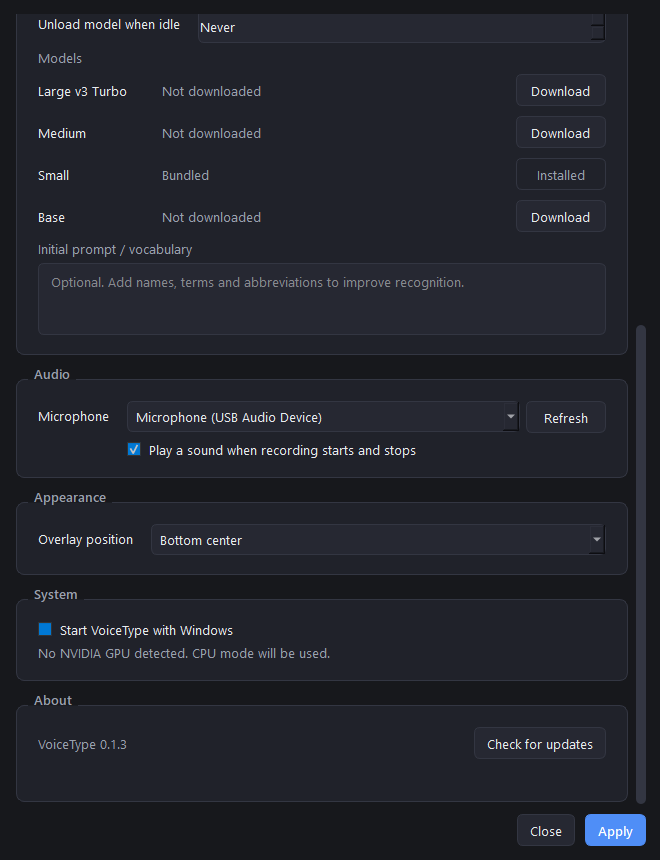
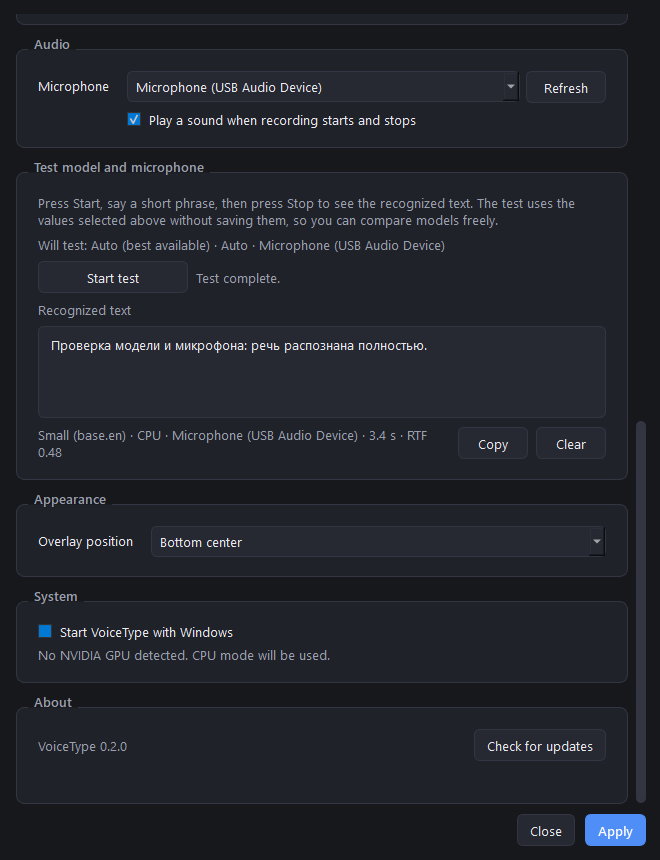
Cover the fixes and the test bench with tests, refresh screenshots, release 0.2.0
Replace the double-encoded test strings with real Russian text, check every default hallucination phrase, and add tests for model file completeness, revision-pinned file lists, CUDA retry, the overlay fade cancellation, and test bench validation. Document the test bench in the README, capture the settings screenshot with a completed test result, and set the version in the package, project file, installer, and README.

diff --git a/tests/test_core.py b/tests/test_core.py
@@ -1,8 +1,10 @@
 from __future__ import annotations
 
 import sys
+import tempfile
 import unittest
 from pathlib import Path
+from unittest import mock
 
 ROOT = Path(__file__).resolve().parents[1]
 sys.path.insert(0, str(ROOT / "src"))
@@ -11,7 +13,7 @@ import numpy as np  # noqa: E402
 
 import voicetype  # noqa: E402,F401
 from voicetype import models  # noqa: E402
-from voicetype.config import AppConfig  # noqa: E402
+from voicetype.config import DEFAULT_HALLUCINATIONS, AppConfig  # noqa: E402
 from voicetype.hotkeys import (  # noqa: E402
     canonical_vk,
     format_hotkey,
@@ -435,13 +437,19 @@ class TranscriberTests(unittest.TestCase):
 
 class CleanTextTests(unittest.TestCase):
     def test_whitespace(self) -> None:
-        self.assertEqual(clean_text("  РїСЂРёРІРµС‚   РјРёСЂ \n", []), "РїСЂРёРІРµС‚ РјРёСЂ")
+        self.assertEqual(clean_text("  привет   мир \n", []), "привет мир")
 
     def test_hallucinations(self) -> None:
-        phrases = ["РџСЂРѕРґРѕР»Р¶РµРЅРёРµ СЃР»РµРґСѓРµС‚...", "РЎРїР°СЃРёР±Рѕ Р·Р° РїСЂРѕСЃРјРѕС‚СЂ!"]
-        self.assertEqual(clean_text("РџСЂРѕРґРѕР»Р¶РµРЅРёРµ СЃР»РµРґСѓРµС‚...", phrases), "")
-        self.assertEqual(clean_text("РЎРїР°СЃРёР±Рѕ Р·Р° РїСЂРѕСЃРјРѕС‚СЂ!", phrases), "")
-        self.assertEqual(clean_text("РџСЂРѕРґРѕР»Р¶РµРЅРёРµ СЃР»РµРґСѓРµС‚", phrases), "")
+        phrases = list(DEFAULT_HALLUCINATIONS)
+        self.assertEqual(clean_text("Продолжение следует...", phrases), "")
+        self.assertEqual(clean_text("Спасибо за просмотр!", phrases), "")
+        self.assertEqual(clean_text("Продолжение следует", phrases), "")
+
+    def test_all_default_hallucinations_are_dropped(self) -> None:
+        phrases = list(DEFAULT_HALLUCINATIONS)
+        for phrase in phrases:
+            with self.subTest(phrase=phrase):
+                self.assertEqual(clean_text(phrase, phrases), "")
 
     def test_punctuation_only(self) -> None:
         self.assertEqual(clean_text("...", []), "")
@@ -491,6 +499,147 @@ class ModelRegistryTests(unittest.TestCase):
             self.assertEqual(len(info.revision), 40)
             self.assertIn("model.bin", dict(info.fallback_files))
             self.assertIn("config.json", dict(info.fallback_files))
+            self.assertIn("tokenizer.json", dict(info.fallback_files))
+
+
+class ModelCompletenessTests(unittest.TestCase):
+    @staticmethod
+    def _write(directory: Path, *names: str) -> None:
+        directory.mkdir(parents=True, exist_ok=True)
+        for name in names:
+            (directory / name).write_bytes(b"test")
+
+    def _patch_dirs(self, local: Path, bundled: Path):
+        return (
+            mock.patch.object(models.cfg, "models_dir", return_value=local),
+            mock.patch.object(models.cfg, "bundled_models_dir", return_value=bundled),
+        )
+
+    def test_partial_download_is_not_installed(self) -> None:
+        with tempfile.TemporaryDirectory() as tmp:
+            root = Path(tmp)
+            local = root / "local"
+            bundled = root / "bundled"
+            self._write(local / "small", "model.bin", "config.json")
+            local_patch, bundled_patch = self._patch_dirs(local, bundled)
+            with local_patch, bundled_patch:
+                self.assertIsNone(models.model_path("small"))
+                self.assertEqual(models.model_status("small"), "missing")
+                self.assertFalse(models.is_available("small"))
+
+    def test_complete_download_is_installed(self) -> None:
+        with tempfile.TemporaryDirectory() as tmp:
+            root = Path(tmp)
+            local = root / "local"
+            bundled = root / "bundled"
+            self._write(local / "small", *models.REQUIRED_MODEL_FILES)
+            local_patch, bundled_patch = self._patch_dirs(local, bundled)
+            with local_patch, bundled_patch:
+                self.assertEqual(models.model_path("small"), local / "small")
+                self.assertEqual(models.model_status("small"), "downloaded")
+                self.assertTrue(models.is_available("small"))
+
+    def test_bundled_model_takes_precedence(self) -> None:
+        with tempfile.TemporaryDirectory() as tmp:
+            root = Path(tmp)
+            local = root / "local"
+            bundled = root / "bundled"
+            self._write(local / "small", *models.REQUIRED_MODEL_FILES)
+            self._write(bundled / "small", *models.REQUIRED_MODEL_FILES)
+            local_patch, bundled_patch = self._patch_dirs(local, bundled)
+            with local_patch, bundled_patch:
+                self.assertEqual(models.model_path("small"), bundled / "small")
+                self.assertEqual(models.model_status("small"), "bundled")
+
+
+class ModelRemoteFilesTests(unittest.TestCase):
+    def test_file_list_is_requested_for_pinned_revision(self) -> None:
+        info = models.MODELS["small"]
+        response = mock.Mock()
+        response.raise_for_status.return_value = None
+        response.json.return_value = {
+            "siblings": [{"rfilename": "model.bin", "size": 123}]
+        }
+        with mock.patch.object(models.requests, "get", return_value=response) as get:
+            files, total = models._remote_files(info)
+        url = get.call_args.args[0]
+        self.assertIn(f"revision={info.revision}", url)
+        self.assertEqual(files, [("model.bin", 123)])
+        self.assertEqual(total, 123)
+
+
+class CudaRetryTests(unittest.TestCase):
+    def test_explicit_cuda_retry_clears_previous_failure(self) -> None:
+        from voicetype.transcriber import TranscriptionWorker
+
+        worker = TranscriptionWorker()
+        worker._cuda_failure = "CUDA out of memory"
+        self.assertEqual(worker._effective_device("cuda"), "cpu")
+        loaded: list[tuple[str, str]] = []
+        worker._load = lambda model_key, device: loaded.append((model_key, device))
+
+        worker.configure("small", "cuda", "ru", "", [], True)
+
+        self.assertIsNone(worker._cuda_failure)
+        self.assertEqual(loaded, [("small", "cuda")])
+
+    def test_configure_without_retry_keeps_failure(self) -> None:
+        from voicetype.transcriber import TranscriptionWorker
+
+        worker = TranscriptionWorker()
+        worker._cuda_failure = "CUDA out of memory"
+        worker._load = lambda model_key, device: None
+
+        worker.configure("small", "cuda", "ru", "", [], False)
+
+        self.assertEqual(worker._cuda_failure, "CUDA out of memory")
+
+
+class OverlayFadeTests(unittest.TestCase):
+    @classmethod
+    def setUpClass(cls) -> None:
+        from PySide6.QtWidgets import QApplication
+
+        cls._app = QApplication.instance() or QApplication([])
+
+    def test_cancel_pending_hide(self) -> None:
+        from voicetype.ui.overlay import OverlayWindow
+
+        overlay = OverlayWindow()
+        overlay._hide_after_fade = True
+        overlay._cancel_pending_hide()
+        self.assertFalse(overlay._hide_after_fade)
+        self.assertAlmostEqual(overlay.windowOpacity(), 1.0)
+        overlay.deleteLater()
+
+
+class RecognitionTestValidationTests(unittest.TestCase):
+    @classmethod
+    def setUpClass(cls) -> None:
+        from PySide6.QtWidgets import QApplication
+
+        cls._app = QApplication.instance() or QApplication([])
+
+    def test_missing_microphone_is_rejected(self) -> None:
+        from voicetype.testbench import RecognitionTester
+
+        tester = RecognitionTester()
+        errors: list[str] = []
+        tester.error.connect(errors.append)
+        try:
+            started = tester.start(
+                "small",
+                "cpu",
+                "ru",
+                "",
+                "VoiceType microphone that does not exist",
+                [],
+            )
+        finally:
+            tester.shutdown()
+        self.assertFalse(started)
+        self.assertEqual(tester.state, "error")
+        self.assertTrue(errors)
 
 
 if __name__ == "__main__":

diff --git a/scripts/capture_screenshots.py b/scripts/capture_screenshots.py
@@ -104,6 +104,19 @@ def _prepare_demo_environment() -> None:
     )
 
 
+def _decorate_test_group(window: SettingsWindow) -> None:
+    """Fill the test group with a completed demo result for the screenshot."""
+    window._test_status.setText("Test complete.")
+    window._test_text.setPlainText(
+        "Проверка модели и микрофона: речь распознана полностью."
+    )
+    window._test_meta.setText(
+        "Small (base.en) · CPU · Microphone (USB Audio Device) · 3.4 s · RTF 0.48"
+    )
+    window._test_copy.setEnabled(True)
+    window._test_clear.setEnabled(True)
+
+
 def _settings_screenshots(app: QApplication) -> None:
     window = SettingsWindow(DemoApplication())
     window.resize(660, 860)
@@ -119,10 +132,12 @@ def _settings_screenshots(app: QApplication) -> None:
             (group for group in window.findChildren(QGroupBox) if group.title() == "Audio"),
             None,
         )
+        _decorate_test_group(window)
         bar.setValue(audio.y() - 12 if audio is not None else bar.maximum())
         QTest.qWait(250)
         window.grab().save(str(OUTPUT / "settings-audio-system.png"), "PNG")
 
+    window.shutdown()
     window.close()
     QTest.qWait(100)
 

diff --git a/src/voicetype/__init__.py b/src/voicetype/__init__.py
@@ -8,7 +8,7 @@ try:  # pragma: no cover - import order workaround
 except Exception:
     pass
 
-__version__ = "0.1.3"
+__version__ = "0.2.0"
 APP_NAME = "VoiceType"
 APP_ID = "VoiceType.SingleInstance"
 GITHUB_REPO = "flynet/speech_texter"

diff --git a/README.md b/README.md
@@ -13,6 +13,9 @@ CTranslate2.
 - Automatic GPU detection with a safe CPU fallback
 - Tray icon, no main window, and a small always-on-top recording overlay
 - Model manager: `base`, `small`, `medium`, and `large-v3-turbo`
+- Built-in test bench in Settings: record a short sample with the currently
+  selected model, device, and microphone without saving them, so models and
+  microphones can be compared before applying
 - Optional CUDA acceleration pack downloaded separately from GitHub Releases
 - Optional autostart, notification sounds, initial prompt, idle model unload
 - Built-in updater verified with SHA-256
@@ -25,7 +28,7 @@ model; the second shows audio, overlay, and system options.
 
 ![VoiceType settings: dictation and speech model](docs/screenshots/settings-dictation.png)
 
-![VoiceType settings: audio, appearance, and system](docs/screenshots/settings-audio-system.png)
+![VoiceType settings: audio, test bench, appearance, and system](docs/screenshots/settings-audio-system.png)
 
 The tray menu and the recording overlay that appears while the hotkey is held:
 
@@ -111,6 +114,7 @@ configured as the hotkey, VoiceType consumes Space presses system-wide — choos
 | **Models** | Model manager. `Small` is bundled with the installer and marked `Bundled`/`Installed`. Other models show `Not downloaded` with a **Download** button; an active download can be cancelled. |
 | **Initial prompt / vocabulary** | Optional text passed to Whisper before recognition. Add names, product terms, abbreviations, or unusual spellings to make them more likely to be recognized correctly. Keep it short; a long prompt may bias the output. |
 | **Microphone** | Input device. `System default` follows the Windows default device; choosing a specific microphone overrides it. **Refresh** re-scans the device list after connecting or disconnecting a microphone. |
+| **Test model and microphone** | A demo bench next to the microphone selector. Press **Start test**, speak for up to 30 seconds, press **Stop and recognize**: the recognized text appears with the model, device, microphone, duration and RTF of that run. It uses the values selected above **without saving them**, so you can compare models and microphones freely, then press **Apply** once at the end. Global hotkeys are paused while testing, and the main dictation pipeline is left untouched. |
 | **Sounds** | Plays a short tone when recording starts and a different one when it stops. |
 | **Overlay position** | Where the recording overlay appears: bottom center (default), bottom left, bottom right, or top center. The overlay ignores mouse input and never takes focus. |
 | **Start with Windows** | Adds or removes a per-user `HKCU\Software\Microsoft\Windows\CurrentVersion\Run` entry. No administrator rights are required. |
@@ -250,10 +254,10 @@ Copy-Item -Recurse -Force models\small dist\VoiceType\models\small
 ### Build the installer
 
 ```powershell
-iscc /DMyAppVersion=0.1.3 installer\voicetype.iss
+iscc /DMyAppVersion=0.2.0 installer\voicetype.iss
 ```
 
-The result is written to `dist-installer\VoiceType-Setup-0.1.3.exe`.
+The result is written to `dist-installer\VoiceType-Setup-0.2.0.exe`.
 
 ### Build the CUDA pack
 
